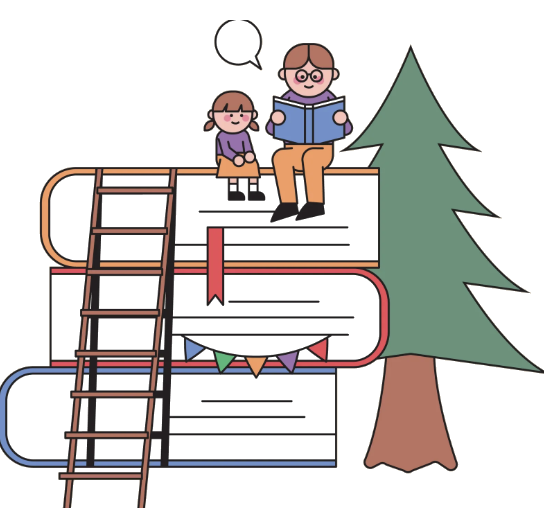
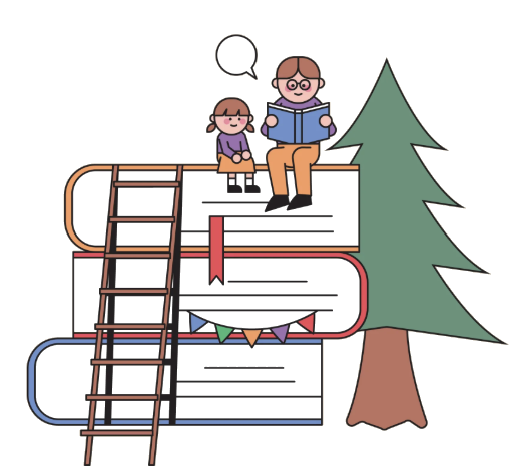
Finalize step illustration alignment, resizable chat, and keyword tag colors
- Replace hero/step illustration with an unclipped source image, keep book-bottom flush with each panel's top border on steps 1-3
- Fix step 3 panel jumping position by removing content-dependent auto-centering (panels now grow from the bottom only)
- Make the chat widget draggable and user-resizable, scale up its size/type proportionally, add a resize hint in the header
- Retune season/trend keyword chip colors: thicker border, darker semi-transparent fill when selected, black text
- Add season keyword icons, fit them on one row
- Add matching dashed dividers and spacing across step 1-3 cards

Changed region(s): [[0.0, 0.03, 1.0, 1.0], [0.7941, 0.7511, 0.8235, 0.8412]]

diff --git a/style.css b/style.css
@@ -176,20 +176,20 @@ button, select, input { font: inherit; }
     box-shadow: 0 10px 24px rgba(43,36,32,0.05);
     display: none;
 }
-.panel.active { display: block; margin-top: auto; margin-bottom: auto; }
+.panel.active { display: block; }
 .step1-illustration {
     position: absolute;
-    bottom: -88px;
+    bottom: -91px;
     right: 20px;
-    width: 235px;
+    width: 261px;
     height: auto;
     z-index: 5;
     pointer-events: none;
 }
 .dashboard-container:has(#step-2.active) .step1-illustration,
 .dashboard-container:has(#step-3.active) .step1-illustration {
-    bottom: -56px;
-    width: 186px;
+    bottom: -63px;
+    width: 261px;
 }
 .panel-header h2 { margin: 0 0 6px; color: var(--teal); font-family: "Jua", sans-serif; font-weight: normal; }
 .panel-header p { margin: 0; color: var(--muted); }
@@ -553,7 +553,7 @@ button, select, input { font: inherit; }
 }
 .keyword-tag.season-tag.selected {
     border-color: var(--coral);
-    background: rgba(200, 84, 80, 0.38);
+    background: rgba(200, 84, 80, 0.55);
     color: var(--ink);
 }
 .keyword-tag.trend-tag {
@@ -564,7 +564,7 @@ button, select, input { font: inherit; }
 }
 .keyword-tag.trend-tag.selected {
     border-color: #a3bd91;
-    background: rgba(163, 189, 145, 0.38);
+    background: rgba(163, 189, 145, 0.55);
     color: var(--ink);
 }
 .card-hint { color: var(--muted); font-size: 0.85rem; margin: -4px 0 20px; }
@@ -698,13 +698,16 @@ button, select, input { font: inherit; }
     position: fixed;
     right: max(24px, calc((100vw - 1100px) / 2 + 24px));
     bottom: 86px;
-    width: 400px;
+    width: 520px;
     max-width: calc(100vw - 32px);
-    height: 460px;
+    height: 660px;
+    min-width: 320px;
+    min-height: 360px;
     display: flex;
     flex-direction: column;
-    border-radius: 16px;
-    overflow: hidden;
+    border-radius: 20px;
+    overflow: auto;
+    resize: both;
     border: 1px solid var(--line);
     background: rgba(255, 255, 255, 0.72);
     backdrop-filter: blur(10px);
@@ -724,32 +727,45 @@ button, select, input { font: inherit; }
 .chat-header {
     background: rgba(63, 108, 107, 0.85);
     color: white;
-    padding: 12px 14px;
+    padding: 22px 22px;
     display: flex;
     justify-content: space-between;
     align-items: center;
+    font-size: 1.6rem;
+}
+.chat-header-text {
+    display: flex;
+    flex-direction: column;
+    gap: 5px;
+}
+.chat-resize-hint {
+    margin: 0;
+    color: #f2e7d5;
+    font-size: 0.9rem;
+    line-height: 1.3;
 }
 .icon-btn {
     background: transparent;
     border: none;
     color: white;
-    font-size: 1.2rem;
+    font-size: 1.56rem;
     cursor: pointer;
 }
 .chat-body {
     flex: 1;
-    padding: 12px;
+    padding: 16px;
     overflow-y: auto;
     display: flex;
     flex-direction: column;
-    gap: 8px;
+    gap: 10px;
 }
 .msg {
     max-width: 88%;
-    padding: 10px 12px;
-    border-radius: 12px;
+    padding: 13px 16px;
+    border-radius: 16px;
     line-height: 1.45;
     white-space: pre-wrap;
+    font-size: 1.25rem;
 }
 .ai-msg { background: rgba(242, 231, 213, 0.85); align-self: flex-start; }
 .user-msg { background: rgba(63, 108, 107, 0.85); color: white; align-self: flex-end; }
@@ -757,21 +773,21 @@ button, select, input { font: inherit; }
     display: none;
     position: relative;
     flex-direction: column;
-    gap: 6px;
-    padding: 26px 12px 10px;
+    gap: 8px;
+    padding: 32px 16px 13px;
 }
 .chat-suggestions.visible { display: flex; }
 .suggestion-close {
     position: absolute;
-    top: 4px;
-    right: 6px;
-    width: 18px;
-    height: 18px;
+    top: 5px;
+    right: 8px;
+    width: 23px;
+    height: 23px;
     padding: 0;
     border: none;
     background: transparent;
     color: var(--muted);
-    font-size: 0.95rem;
+    font-size: 1.2rem;
     line-height: 1;
     cursor: pointer;
 }
@@ -780,9 +796,9 @@ button, select, input { font: inherit; }
     border: 1px solid var(--line);
     background: rgba(255, 255, 255, 0.28);
     color: var(--ink);
-    padding: 8px 10px;
-    border-radius: 10px;
-    font-size: 0.85rem;
+    padding: 10px 13px;
+    border-radius: 13px;
+    font-size: 1.1rem;
     line-height: 1.4;
     cursor: pointer;
     transition: background 0.15s ease;
@@ -790,19 +806,20 @@ button, select, input { font: inherit; }
 .suggestion-chip:hover { background: rgba(255, 255, 255, 0.6); }
 .chat-input-area {
     display: flex;
-    gap: 8px;
-    padding: 10px;
+    gap: 10px;
+    padding: 13px;
     border-top: 1px solid var(--line);
 }
 .chat-input-area input {
     flex: 1;
     border: 1px solid var(--line);
-    border-radius: 10px;
-    padding: 9px 10px;
+    border-radius: 13px;
+    padding: 12px 13px;
+    font-size: 1.25rem;
 }
 .chat-input-area button {
-    width: 40px;
-    height: 40px;
+    width: 52px;
+    height: 52px;
     flex-shrink: 0;
     display: flex;
     align-items: center;
@@ -815,6 +832,7 @@ button, select, input { font: inherit; }
     cursor: pointer;
 }
 .chat-input-area button:disabled { background: #c8bbb0; cursor: not-allowed; }
+.chat-input-area button svg { width: 23px; height: 23px; }
 @media (max-width: 860px) {
     .selector-grid, .analysis-grid, .topic-grid { grid-template-columns: 1fr; }
     .panel { padding: 18px; }

diff --git a/script.js b/script.js
@@ -759,6 +759,45 @@ function attachEvents() {
     document.getElementById('chat-input').addEventListener('keydown', (event) => {
         if (event.key === 'Enter') sendChatMessage();
     });
+    enableChatDrag();
+}
+
+function enableChatDrag() {
+    const widget = document.getElementById('chat-widget');
+    const handle = document.querySelector('#chat-widget .chat-header');
+    let dragging = false;
+    let offsetX = 0;
+    let offsetY = 0;
+
+    handle.style.cursor = 'move';
+
+    handle.addEventListener('mousedown', (event) => {
+        if (event.target.closest('#chat-close-btn')) return;
+        dragging = true;
+        const rect = widget.getBoundingClientRect();
+        offsetX = event.clientX - rect.left;
+        offsetY = event.clientY - rect.top;
+        widget.style.right = 'auto';
+        widget.style.bottom = 'auto';
+        widget.style.left = `${rect.left}px`;
+        widget.style.top = `${rect.top}px`;
+        event.preventDefault();
+    });
+
+    document.addEventListener('mousemove', (event) => {
+        if (!dragging) return;
+        const rect = widget.getBoundingClientRect();
+        const maxLeft = window.innerWidth - rect.width;
+        const maxTop = window.innerHeight - rect.height;
+        const newLeft = Math.min(Math.max(0, event.clientX - offsetX), maxLeft);
+        const newTop = Math.min(Math.max(0, event.clientY - offsetY), maxTop);
+        widget.style.left = `${newLeft}px`;
+        widget.style.top = `${newTop}px`;
+    });
+
+    document.addEventListener('mouseup', () => {
+        dragging = false;
+    });
 }
 
 function enhanceSelect(select) {

diff --git a/index.html b/index.html
@@ -142,7 +142,10 @@
     </button>
     <div id="chat-widget" class="chat-widget" aria-live="polite">
         <div class="chat-header">
-            <span>✨ AI 기획 도우미</span>
+            <div class="chat-header-text">
+                <span>✨ AI 기획 도우미</span>
+                <p class="chat-resize-hint">(채팅창 크기는 우측 하단 모서리에서 조절 가능합니다.)</p>
+            </div>
             <button id="chat-close-btn" class="icon-btn" aria-label="닫기">×</button>
         </div>
         <div class="chat-body" id="chat-messages">
